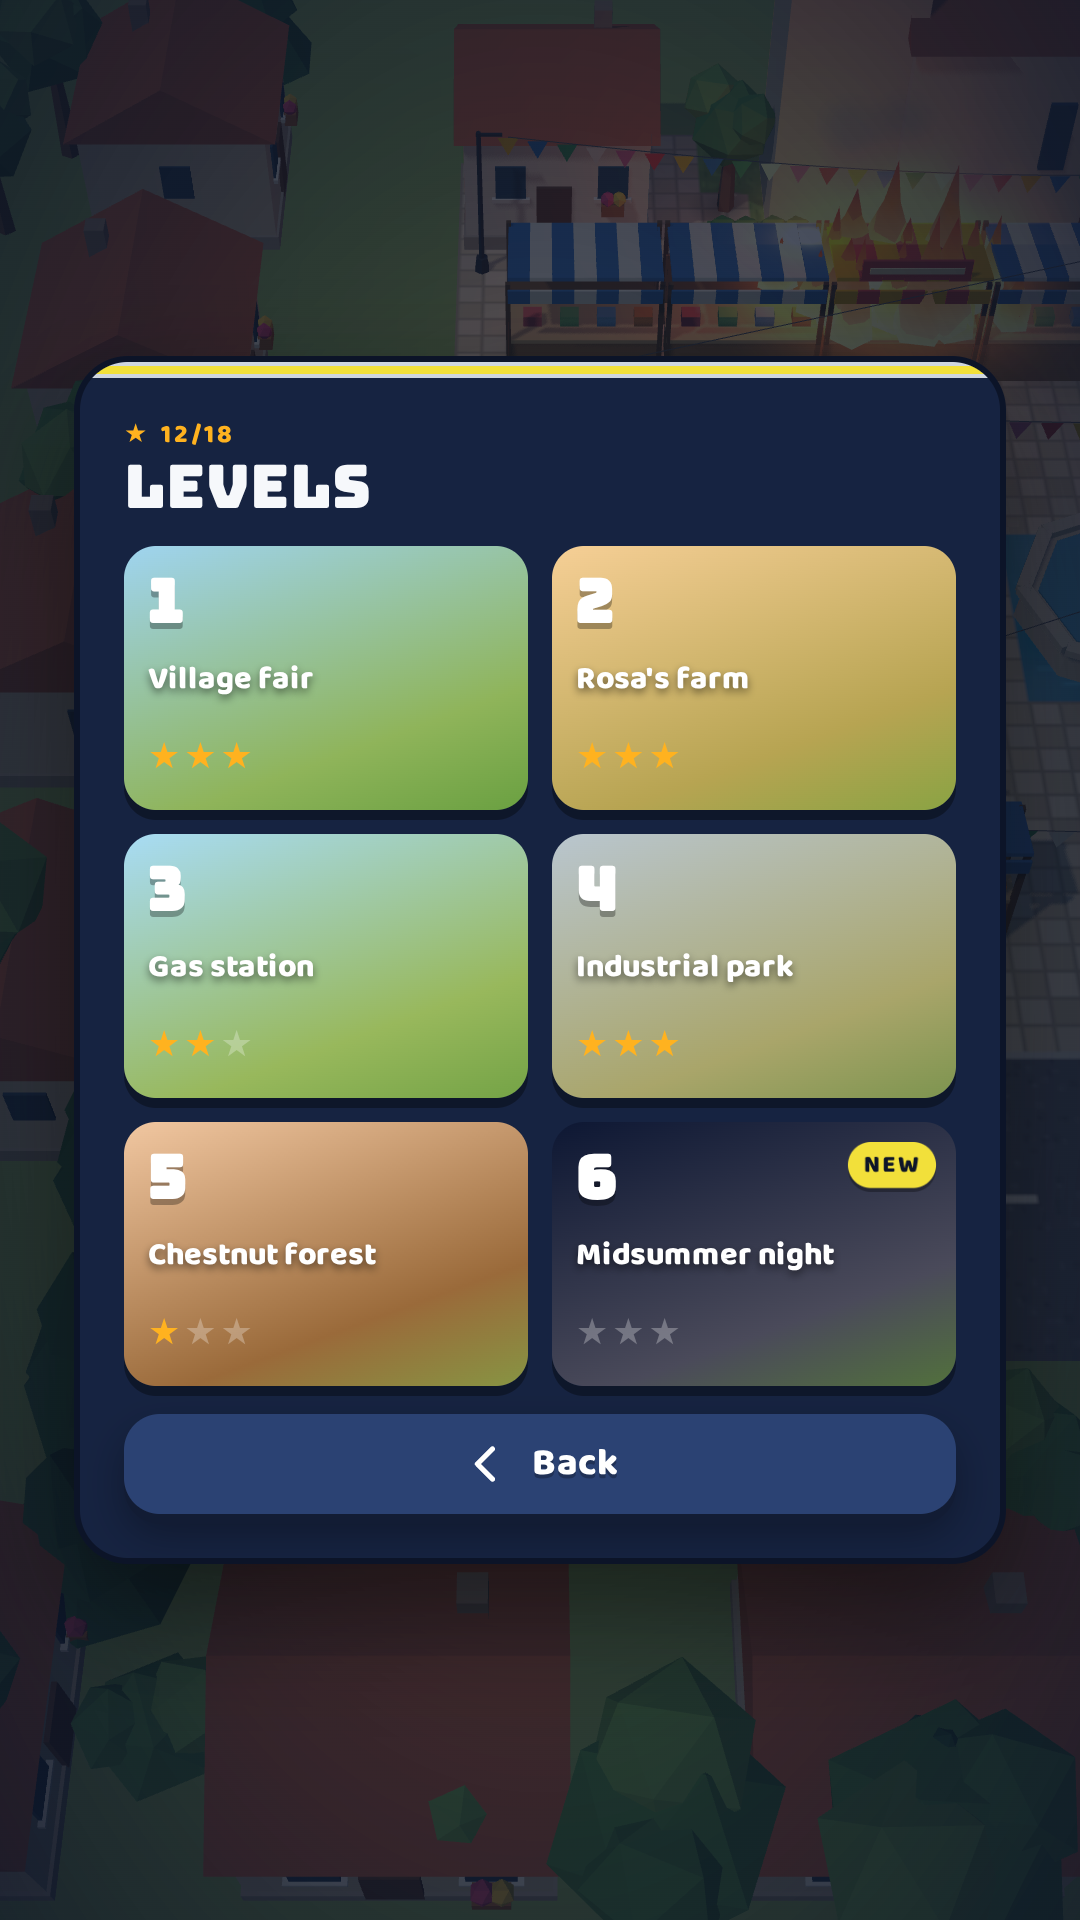
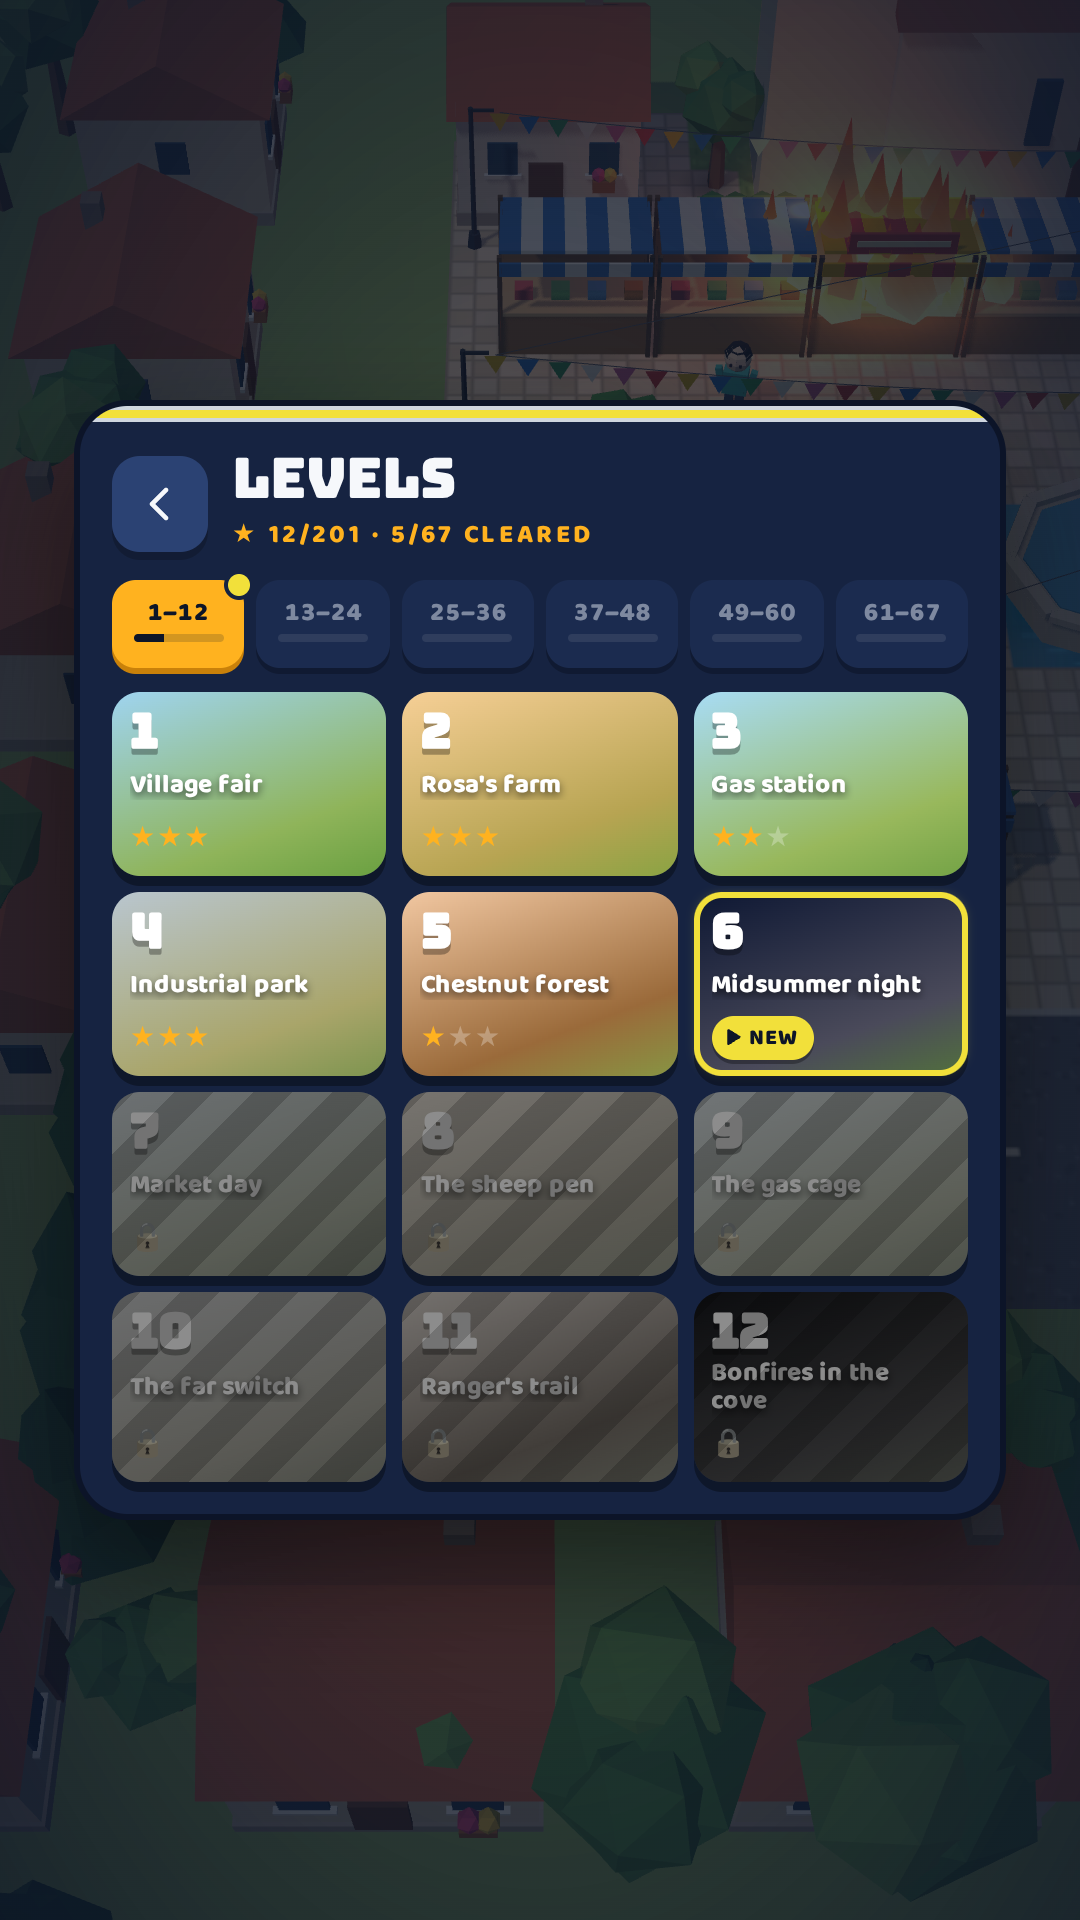
Capturas de Play: el selector de niveles con la campaña de 67 niveles (es y en)
Claude-Session: https://claude.ai/code/session_01QmgToeeGN4mTan4UFKf8XV

diff --git a/tools/store_shots.py b/tools/store_shots.py
@@ -1,5 +1,5 @@
 # Google Play assets from the real game: phone screenshots (1080x1920, with HUD) and the feature graphic (1024x500).
-# Usage: python3 tools/store_shots.py [all|shots|feature]   (serve dist/ on :8765 first, or set PORT)
+# Usage: python3 tools/store_shots.py [all|shots|levels|feature]   (serve dist/ on :8765 first, or set PORT)
 # GAME_LANG=en renders the English listing into assets/play-en/ (default: Spanish into assets/play/).
 import asyncio, os, sys
 sys.path.insert(0, os.path.dirname(__file__))
@@ -51,6 +51,7 @@ async def main():
             await game_shot(p, '3-sanjuan.png', 5, (0, 9.0), 1.0)
             await game_shot(p, '4-castanar.png', 4, (8, 22), 1.2)
             await game_shot(p, '5-gasolinera.png', 2, (6, 6), 0.95)
+        if which in ('all', 'shots', 'levels'):
             await menu_shot(p, '6-niveles.png', ['[data-a=levels]'])
         if which in ('all', 'feature'):
             A.OUT = OUT

diff --git a/tools/README.md b/tools/README.md
@@ -20,7 +20,7 @@ Los de Python usan Playwright con Chromium (`pip install playwright pillow fontt
 |---|---|---|
 | `assets.py` | Iconos de la web, imagen para redes (`og.png`) y las 3 portadas de CrazyGames | `assets/` |
 | `android_icons.py` | Fuentes del icono adaptativo y la pantalla de inicio de Android (para `@capacitor/assets`) | `assets/android/` |
-| `store_shots.py` | Las 6 capturas de móvil y el gráfico destacado de Google Play | `assets/play/` |
+| `store_shots.py` | Las 6 capturas de móvil y el gráfico destacado de Google Play (`levels` rehace solo la del selector de niveles; `GAME_LANG=en` para la ficha en inglés) | `assets/play/` y `assets/play-en/` |
 | `testers_assets.py` | Tarjeta «Se buscan testers» y capturas ligeras de la página `/testers` (no necesita servidor) | `assets/testers/` |
 | `shots2.py` | Capturas de escenarios para revisar el aspecto del juego | `shots/` |
 | `video.py` | Vídeos renderizados fotograma a fotograma desde el juego real. Perfiles: `x` (vertical 1080×1920 con música, para redes), `cg169` y `cg23` (vistas previas de CrazyGames, sin sonido y por debajo de 10 MB) | `build/video/` |
